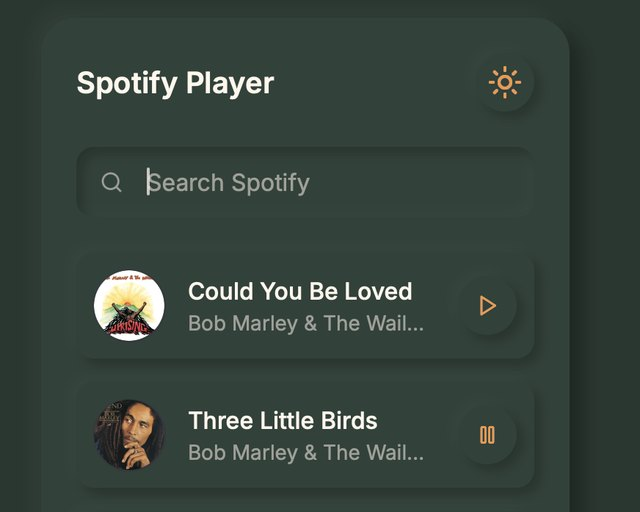
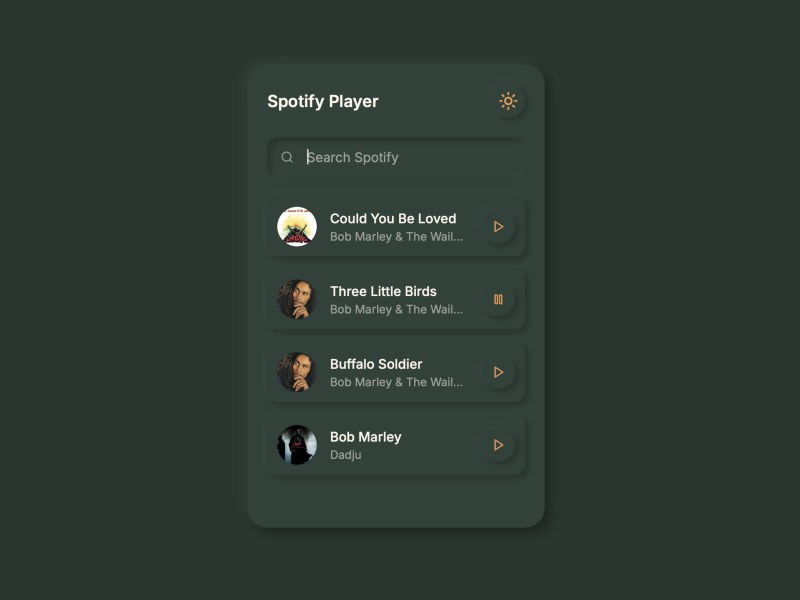
design: previews as small tiles showing the whole card
Spotify Agent: full player card; UI kit: the complete 'Upcoming Event' card
(the agenda capture was cut off by v0's fixed preview height). Both centred on
their own ink-green background in 200 px 4:3 tiles, nothing cropped through
content. DESIGN.md: rule for product screenshots.

diff --git a/app/landing-page.tsx b/app/landing-page.tsx
@@ -646,11 +646,12 @@ function PromptLink({ placeholder, label }: { placeholder: string; label: string
 	);
 }
 
-// Product preview for the smaller Lab entries: same 5:4 frame for both, so they read as a pair.
+// Product preview for the smaller Lab entries: a small icon-like tile, the whole card centred on its
+// own background (never cropped through content), same size for both so they read as a pair.
 function Preview({ src, alt }: { src: string; alt: string }) {
 	return (
-		<div className="relative mb-6 aspect-[5/4] w-full overflow-hidden rounded-md border border-gold/40 shadow-[0_1px_2px_rgba(31,42,37,0.08),0_12px_24px_-12px_rgba(31,42,37,0.3)]">
-			<Image src={src} alt={alt} fill sizes="(min-width: 768px) 420px, 90vw" className="object-cover" />
+		<div className="relative mb-6 aspect-[4/3] w-[200px] overflow-hidden rounded-md border border-gold/40 shadow-[0_1px_2px_rgba(31,42,37,0.08),0_10px_20px_-10px_rgba(31,42,37,0.3)]">
+			<Image src={src} alt={alt} fill sizes="200px" className="object-cover" />
 		</div>
 	);
 }

diff --git a/DESIGN.md b/DESIGN.md
@@ -119,6 +119,7 @@ Rules:
 - The painting is the identity: watercolour, pencil outlines, paper texture, soft pastel light.
 - Generated assets (Nano Banana / Veo, see `docs/nano-banana/`) keep the composition, trees and mountains; prompts are written as PRESERVE / CHANGE / NO.
 - Palette for anything added to the painting: muted orange, pale yellow, sage, dusty blue, cream. No purple, no saturated colours.
+- Screenshots of other products (Lab side entries): small icon-like tiles (200 px, 4:3), the whole UI card centred on its own dark background, recoloured to the palette (ink green, orange accents) with shadows kept. Never crop through content.
 - Social preview: `app/opengraph-image.jpg` (painting + balloons, 1200 × 630).
 - Product examples keep their own colours. Badges (`public/images/badges/`) are cut out with their cord, no background, layered shadow in ink colour (tight contact shadow + small mid shadow + large soft drop, all `drop-shadow` so the cord casts too); one at a time, crossfading every ~3 s and swinging ±1.6° on the cord (`.badge-sway`); reduced motion shows the first, still.
 
